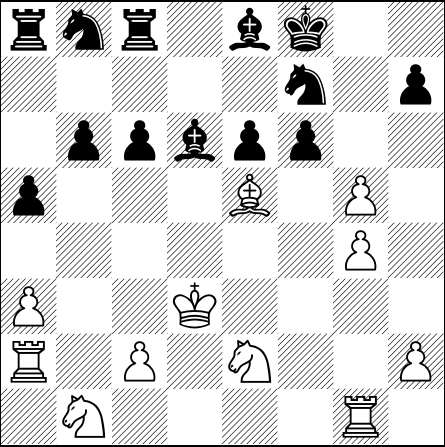
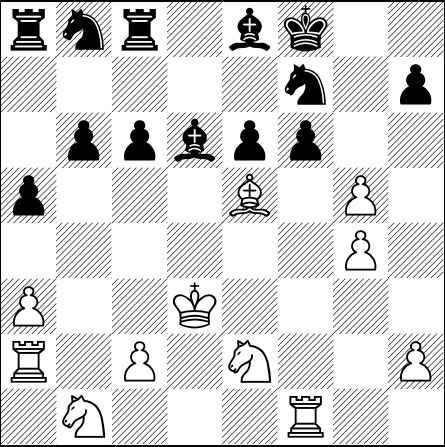
[automated] Regenerate text/pdf for chessboard

Changed region(s): [[0.7596, 0.8725, 0.8472, 0.9888], [0.6427, 0.8725, 0.7303, 0.9888]]

diff --git a/default_filepath.tex b/default_filepath.tex
@@ -13,6 +13,6 @@
 \normalsize%
 \setchessboard{showmover=false}%
 \newgame%
-\fenboard{rnr1bk2/5n1p/1ppbpp2/p3B1P1/6P1/P2K4/R1P1N2P/1N4R1 w - - 1 40}%
+\fenboard{rnr1bk2/5n1p/1ppbpp2/p3B1P1/6P1/P2K4/R1P1N2P/1N3R2 b - - 2 40}%
 \chessboard%
 \end{document}
